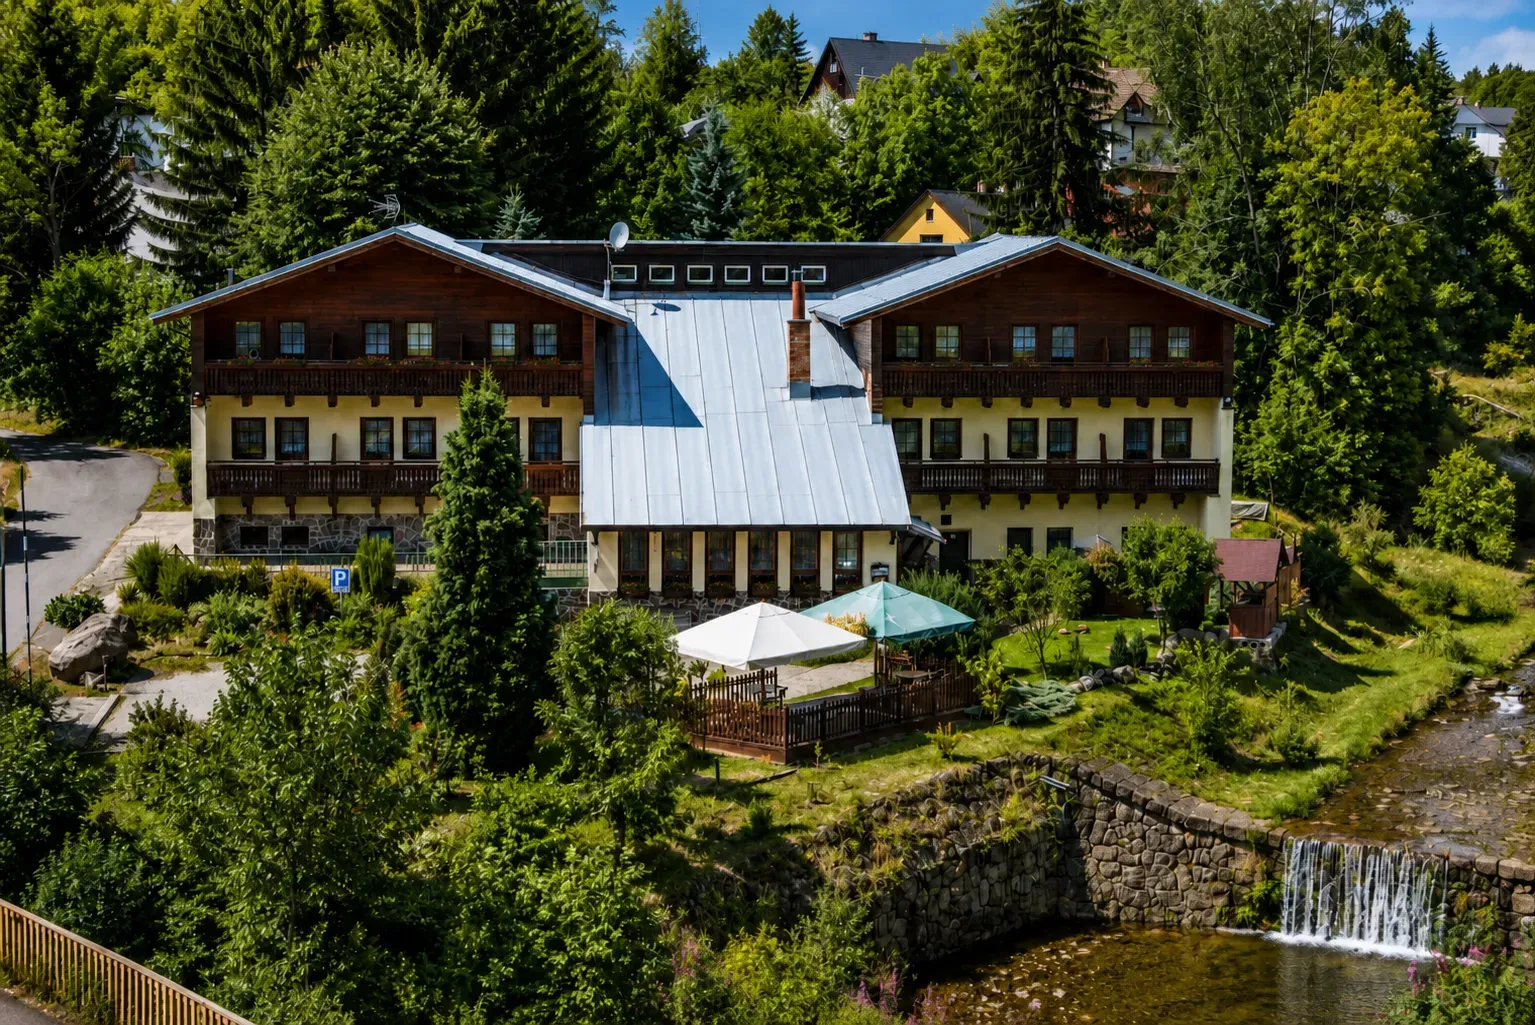
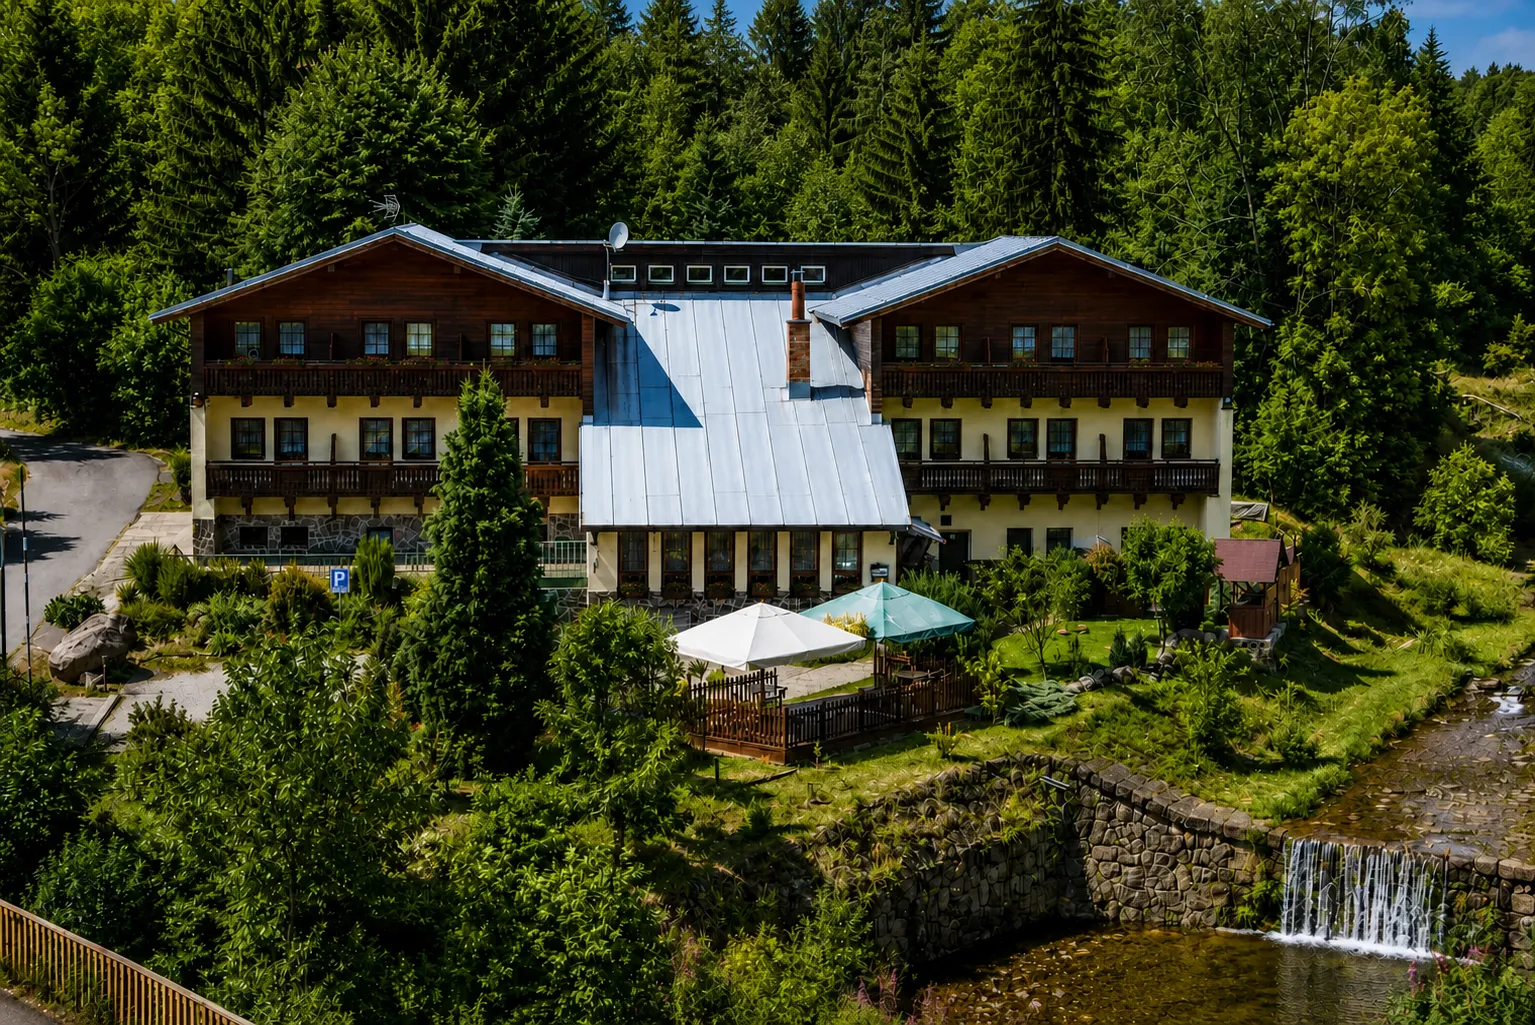
feat: add full ubytovaci kniha fields for additional guests in booking form and admin dashboard

diff --git a/src/components/BookingSystem.js b/src/components/BookingSystem.js
@@ -555,6 +555,25 @@ export class BookingSystem {
 
     this.syncGuestsArray();
 
+    // Sync all guest fields from DOM inputs
+    this.state.guests.forEach((g, idx) => {
+      const nameEl = this.container.querySelector(`#guest-${idx}-name`);
+      const birthEl = this.container.querySelector(`#guest-${idx}-birthdate`);
+      const idNumEl = this.container.querySelector(`#guest-${idx}-idnumber`);
+      const streetEl = this.container.querySelector(`#guest-${idx}-street`);
+      const cityEl = this.container.querySelector(`#guest-${idx}-city`);
+      const zipEl = this.container.querySelector(`#guest-${idx}-zip`);
+      const countryEl = this.container.querySelector(`#guest-${idx}-country`);
+
+      if (nameEl && nameEl.value) g.name = nameEl.value.trim();
+      if (birthEl && birthEl.value) g.birthDate = birthEl.value.trim();
+      if (idNumEl && idNumEl.value) g.idNumber = idNumEl.value.trim();
+      if (streetEl && streetEl.value) g.street = streetEl.value.trim();
+      if (cityEl && cityEl.value) g.city = cityEl.value.trim();
+      if (zipEl && zipEl.value) g.zip = zipEl.value.trim();
+      if (countryEl && countryEl.value) g.country = countryEl.value.trim();
+    });
+
     // Validate Host 1
     if (!this.state.guestName || !this.state.guestName.trim() || isDummyName(this.state.guestName)) {
       this.showFieldError('guest-0-name', 'Prosíme, vyplňte vaše platné Jméno a Příjmení.');
@@ -1477,6 +1496,29 @@ export class BookingSystem {
                                       ` : ''}
                                     </div>
                                   </div>
+                                  
+                                  <div class="form-grid-2col" style="margin-top: 10px;">
+                                    <div class="form-field">
+                                      <label for="guest-${idx}-street" class="form-label">Ulice a číslo popisné:</label>
+                                      <input type="text" id="guest-${idx}-street" class="form-input guest-input" data-idx="${idx}" data-field="street" placeholder="např. Nádražní 14" value="${g.street || ''}">
+                                    </div>
+                                    <div class="form-field">
+                                      <label for="guest-${idx}-city" class="form-label">Město / Obec:</label>
+                                      <input type="text" id="guest-${idx}-city" class="form-input guest-input" data-idx="${idx}" data-field="city" placeholder="např. Liberec" value="${g.city || ''}">
+                                    </div>
+                                  </div>
+
+                                  <div class="form-grid-2col" style="margin-top: 10px;">
+                                    <div class="form-field">
+                                      <label for="guest-${idx}-zip" class="form-label">PSČ:</label>
+                                      <input type="text" id="guest-${idx}-zip" class="form-input guest-input" data-idx="${idx}" data-field="zip" placeholder="např. 460 01" value="${g.zip || ''}">
+                                    </div>
+                                    <div class="form-field">
+                                      <label for="guest-${idx}-country" class="form-label">Stát:</label>
+                                      <input type="text" id="guest-${idx}-country" class="form-input guest-input" data-idx="${idx}" data-field="country" placeholder="Česká republika" value="${g.country || 'Česká republika'}">
+                                    </div>
+                                  </div>
+
                                   <p class="quick-checkin-notice" style="font-size: 13.5px; color: #55554E; margin: 16px 0 0 0; line-height: 1.5;">
                                     💡 <strong>Proč vyplnit tyto údaje online?</strong> Vyplněním ušetříte čas při příjezdu na recepci — nemusíte po cestě nic zdlouhavě vypisovat a klíče od pokoje vám předáme ihned.
                                   </p>

diff --git a/src/components/AdminDashboard.js b/src/components/AdminDashboard.js
@@ -951,7 +951,10 @@ export class AdminDashboard {
                                   ${g.email ? `<li><span>E-mail:</span> <strong>${g.email}</strong></li>` : ''}
                                   <li><span>Datum narození:</span> <strong>${g.birth_date || 'Neuvedeno online'}</strong></li>
                                   <li><span>Číslo OP / Pasu:</span> <strong>${g.id_number || 'Neuvedeno online'}</strong></li>
-                                  <li><span>Bydliště:</span> <strong>${g.street ? g.street + ', ' : ''}${g.city || 'Neuvedeno online'}</strong></li>
+                                  <li><span>Ulice a č.p.:</span> <strong>${g.street || 'Neuvedeno online'}</strong></li>
+                                  <li><span>Město / Obec:</span> <strong>${g.city || 'Neuvedeno online'}</strong></li>
+                                  <li><span>PSČ:</span> <strong>${g.zip || 'Neuvedeno online'}</strong></li>
+                                  <li><span>Stát:</span> <strong>${g.country || 'Česká republika'}</strong></li>
                                 </ul>
                               </div>
                             </div>
